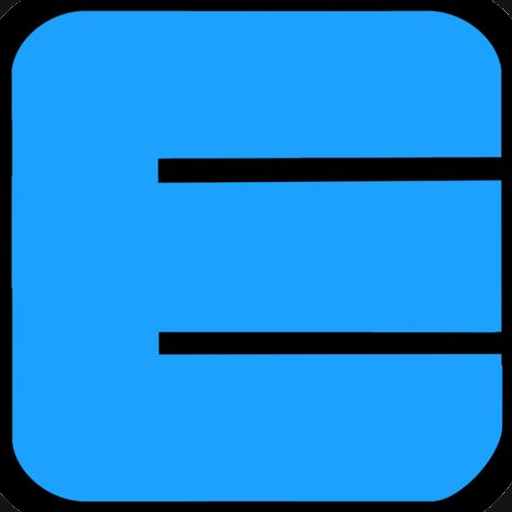
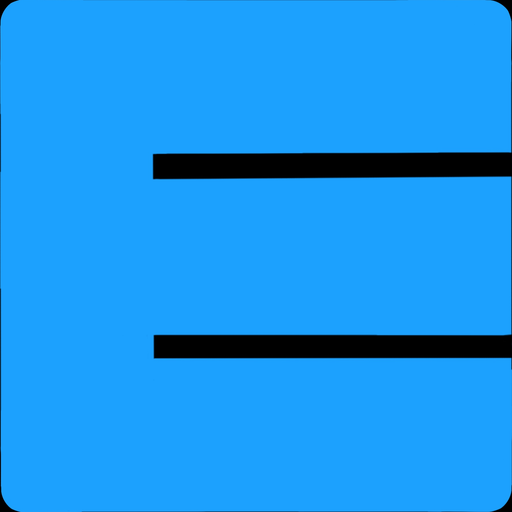
Use borderless letter tiles on the dice faces
Swap the letter faces to the frame-cropped ("padless") tiles and shrink the
pips slightly. The black border is gone; the die body's bevel does the framing.
Any padding we want is applied by scaling the letter down on the face, not baked
into the tile.

Changed region(s): [[0.0, 0.0, 1.0, 1.0]]

diff --git a/src/components/dice3d/faceTexture.ts b/src/components/dice3d/faceTexture.ts
@@ -133,7 +133,7 @@ export function pipTexture(value: number): THREE.CanvasTexture {
   const on = PIP_MAP[value] ?? [];
   const pad = TEX * 0.22;
   const cell = (TEX - pad * 2) / 2; // gaps between the 3x3 centers
-  const r = TEX * 0.11; // chunky pips to match the heavy letter glyphs
+  const r = TEX * 0.095; // chunky pips to match the heavy letter glyphs
 
   for (const idx of on) {
     const col = idx % 3;
